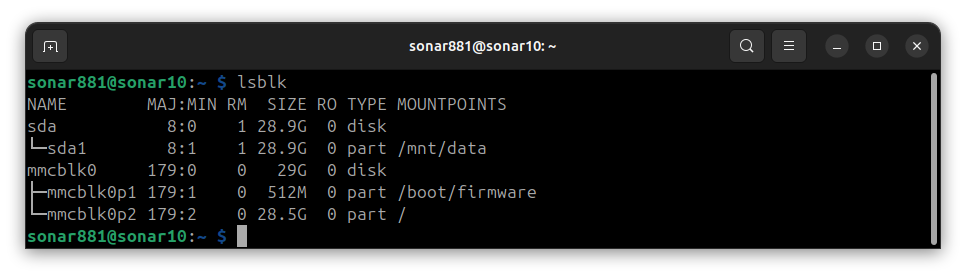
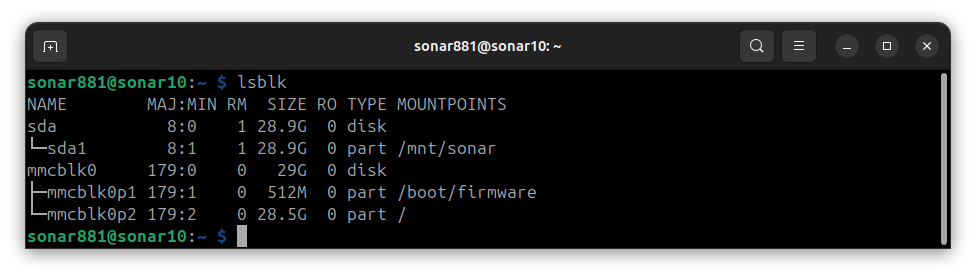
Fixed minor bugs in documentation

diff --git a/hardware/setupRPi.md b/hardware/setupRPi.md
@@ -79,10 +79,12 @@ Also, add the sonar881 user to some groups.  This will allow it to use devices l
 
 ### Permanently mount the USB thumb drive
 
+Note that this procedure permanently binds the sonar881 controller to a specific thumb drive.  You can't just swap thumb drives later.  To change to a different thumb drive, re-run this section with the new thumb drive plugged in.
+
 - Log in as `sonar881` (password `881`).
 - Create a mount point.  This will be used in `fstab` below, and will be where you see the data for this drive:
 
-`sudo mkdir /mnt/data`
+`sudo mkdir /mnt/sonar`
 
 - At the command prompt, enter:
 
@@ -114,7 +116,7 @@ At the bottom, enter a line like
 
 `sudo mount -a`
 
-- Issuing a new lsblk command should show the mount point `/mnt/data` for the partition you mounted, and you should see a file or two at `/mnt/data`.
+- Issuing a new lsblk command should show the mount point `/mnt/sonar` for the partition you mounted, and you should see a file or two at `/mnt/sonar`.
 
 ![lsblk command](lsblk_command_rpi.png)
 
@@ -140,7 +142,7 @@ This section summarizes a longer tutorial at [raspberrypi.com](https://www.raspb
 
 ![nmcli d command](nmcli_command_rpi.png)
 
-You should also see a hotspot called Sonar881 visible to your laptop, phone, or tablet.  Don't connect to it yet; we are not done.
+You should also see a hotspot called Sonar10 visible to your laptop, phone, or tablet.  Don't connect to it yet; we are not done.
 
 Our next step is to make the wifi hotspot available immediately after every reboot.  To do this, we need to change two settings for the hotspot connection from their defaults: `autoconnect` and `autoconnect-priority`.
 
@@ -252,36 +254,6 @@ Note the startup command for the `deploy` container is different from the others
 
 
 
-### Clean logs on boot
-The flash drive storage on the SBC is not huge (about 50 GB), and after a few weeks of use, can be completely filled with log files.  These files are normal Linux activity, but not needed for the sonar controller, and will render it useless if allowed to fill up.
-
-To address this problem, we install a script that runs every time the computer boots that will delete all log files.
-
-`cd bootfiles`
-
-`scp clear-syslogs.sh sonar881@sonarcontroller1:/home/sonar881/clear-syslogs.sh`
-
-- Log into the SBC and install in the correct directory:
-
-`sudo cp clear-syslogs.sh /usr/local/bin`
-
-`chmod 744 /usr/local/bin/clear-syslogs.sh`
-
-- Now, let's create the cron job to run the script as admin (don't forget the `sudo` here):
-
-`sudo crontab -e`
-
-- When nano starts with the cron job table, use the arrow keys to scroll to the bottom and enter:
-
-`@reboot /usr/local/bin/clear-syslogs.sh`
-
-- Use ctrl-X to exit nano, indicating that you want to save.  
-
-The `sudo` version of crontab should now look like this:
-
-![crontab](crontab1.png)
-
-
 ### Start Docker Containers on Boot
 
 Note that I had the Perplexity AI write these instructions.  They seem to work, so here they are:
@@ -317,6 +289,36 @@ Finally, enable and start the service.
 `sudo systemctl enable docker-compose-sonar.service`
 
 `sudo systemctl start docker-compose-sonar.service`
+
+
+### Clean logs on boot
+The flash drive storage on the SBC is not huge (about 50 GB), and after a few weeks of use, can be completely filled with log files.  These files are normal Linux activity, but not needed for the sonar controller, and will render it useless if allowed to fill up.
+
+To address this problem, we install a script that runs every time the computer boots that will delete all log files.
+
+`cd bootfiles`
+
+`scp clear-syslogs.sh sonar881@sonarcontroller1:/home/sonar881/clear-syslogs.sh`
+
+- Log into the SBC and install in the correct directory:
+
+`sudo cp clear-syslogs.sh /usr/local/bin`
+
+`chmod 744 /usr/local/bin/clear-syslogs.sh`
+
+- Now, let's create the cron job to run the script as admin (don't forget the `sudo` here):
+
+`sudo crontab -e`
+
+- When nano starts with the cron job table, use the arrow keys to scroll to the bottom and enter:
+
+`@reboot /usr/local/bin/clear-syslogs.sh`
+
+- Use ctrl-X to exit nano, indicating that you want to save.  
+
+The `sudo` version of crontab should now look like this:
+
+![crontab](crontab1.png)
 
 
 ### Check for Periodic Shutdown
